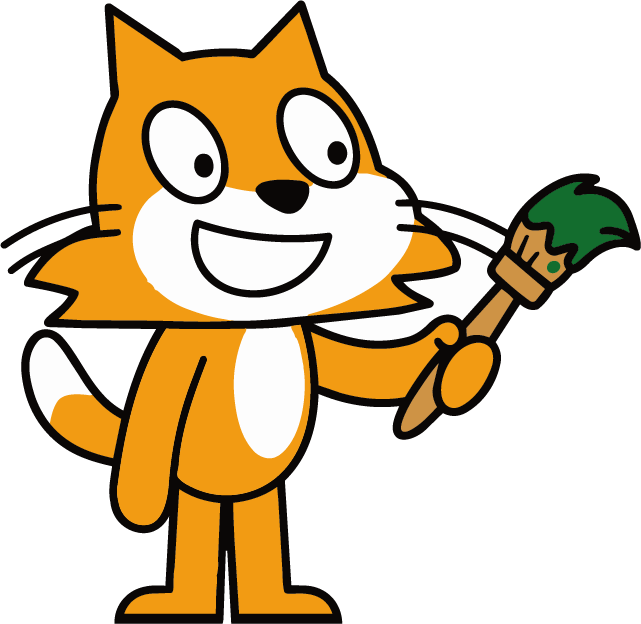
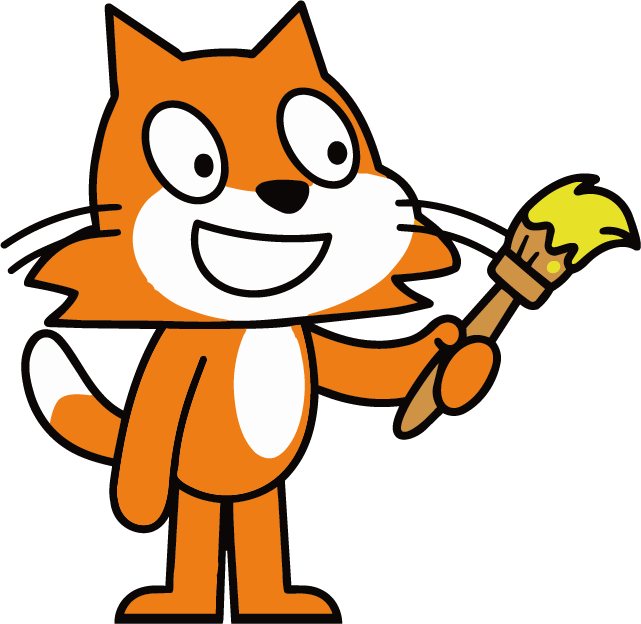
Redraw the Gato Pintado pin and double the Zen do Python pin
The owner sent a corrected gato_pintado.png and asked for the Zen do
Python pin to be twice its size on the sash. The size could not go into
`tamanho`: that field is checked against the PNG header, so writing the
double there would make the art check accuse the file of a size it does
not have. A separate `destaque` factor holds the decision, and the test
pins the list of who has one, so no pin grows without someone deciding.

Claude-Session: https://claude.ai/code/session_015e7guLY1yWsPTMJdbUfJbF

diff --git a/src/lib/catalogoDeCuriosidades.ts b/src/lib/catalogoDeCuriosidades.ts
@@ -52,6 +52,16 @@ export interface Curiosidade {
    * nenhuma; `formaDoPin.test.ts` refaz a conta a partir do arquivo.
    */
   tamanho?: readonly [largura: number, altura: number];
+  /**
+   * Quantas vezes o pin sai maior que o tamanho da arte dele, por decisão do
+   * dono da plataforma, e não do arquivo.
+   *
+   * É campo à parte de `tamanho` de propósito: `tamanho` se confere contra o
+   * cabeçalho do PNG, e escrever o dobro ali faria a trava acusar a arte de
+   * ter um tamanho que ela não tem — ou, pior, ensinaria a afrouxar a trava.
+   * Aqui o número é escolha, e `formaDoPin.test.ts` lista quem a tem.
+   */
+  destaque?: number;
 }
 
 /** O glifo provisório de cada tema, até a arte recortada chegar. */
@@ -138,7 +148,7 @@ export const CURIOSIDADES: readonly Curiosidade[] = [
   seg('leitor_de_manual', 'Leitor de Manual', 'Pediu --help a um comando no terminal.', 'Todo comando tem instruções.'),
   seg('quem_sou_eu', 'Quem Sou Eu', 'Perguntou whoami ao terminal.', 'O computador sabe quem você é?'),
   seg('viajante_no_tempo', 'Viajante no Tempo', 'Voltou um repositório a um commit antigo.', 'O Git lembra de tudo.'),
-  seg('zen_do_python', 'Zen do Python', 'Escreveu import this no editor de Python.', 'O Python tem uma filosofia escondida.'),
+  { ...seg('zen_do_python', 'Zen do Python', 'Escreveu import this no editor de Python.', 'O Python tem uma filosofia escondida.'), destaque: 2 },
   seg('mapa_do_banco', 'Mapa do Banco', 'Consultou sqlite_master no editor de SQL.', 'O banco guarda a própria planta.'),
   seg('fim_da_planilha', 'Fim da Planilha', 'Foi com Ctrl+↓ até a última linha de uma planilha.', 'Até onde vai uma planilha?', [1029 / 641, 1]),
   seg('texto_de_enchimento', 'Texto de Enchimento', 'Escreveu =rand() no Word e viu o texto aparecer.', 'O Word escreve sozinho, se você pedir.'),

diff --git a/src/lib/faixa/catalogoDaFaixa.ts b/src/lib/faixa/catalogoDaFaixa.ts
@@ -282,7 +282,8 @@ function gruposDasCuriosidades(): GrupoDaFaixa[] {
       const a = i * 2.39996 + sorte();
       const giro = sorte() * 24 - 12;
       const [lw, la] = c.tamanho ?? [1, 1];
-      const w = Math.round(CURIOSIDADE * lw), h = Math.round(CURIOSIDADE * la);
+      const vezes = c.destaque ?? 1;
+      const w = Math.round(CURIOSIDADE * lw * vezes), h = Math.round(CURIOSIDADE * la * vezes);
       const [mw, mh] = meiaCaixaGirada(w, h, giro);
       const encosta = (dx: number, dy: number) => postas.some(o =>
         Math.abs(dx - o.dx) < mw + o.mw + VAO_ENTRE_PINS && Math.abs(dy - o.dy) < mh + o.mh + VAO_ENTRE_PINS);

diff --git a/src/lib/formaDoPin.test.ts b/src/lib/formaDoPin.test.ts
@@ -77,4 +77,10 @@ describe('a arte dos pins de curiosidade', () => {
     expect(Math.abs(la - altura / escala)).toBeLessThan(0.02);
     expect(Math.max(lw, la)).toBeGreaterThanOrEqual(1);
   });
+
+  /* O destaque é decisão, e não medida: a lista fechada é o que impede um
+     pin de crescer sem ninguém ter decidido. */
+  it('o destaque é só o que foi pedido', () => {
+    expect(CURIOSIDADES.filter(c => c.destaque).map(c => [c.code, c.destaque])).toEqual([['zen_do_python', 2]]);
+  });
 });
